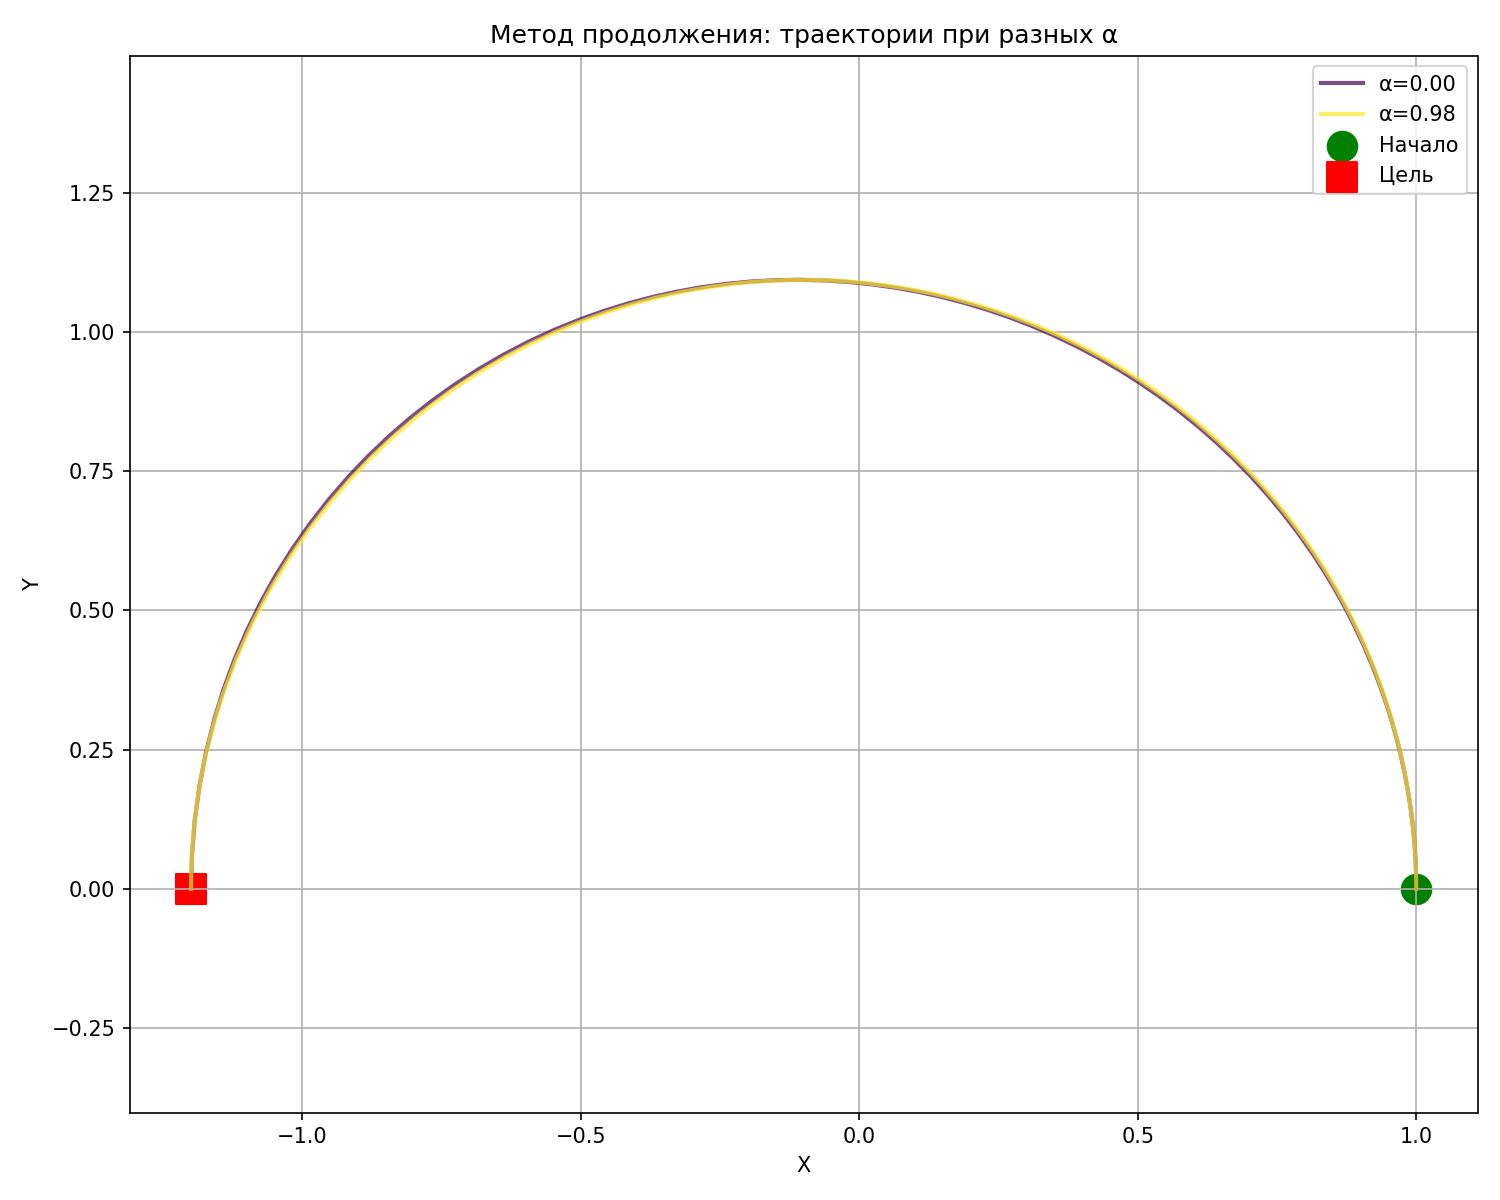
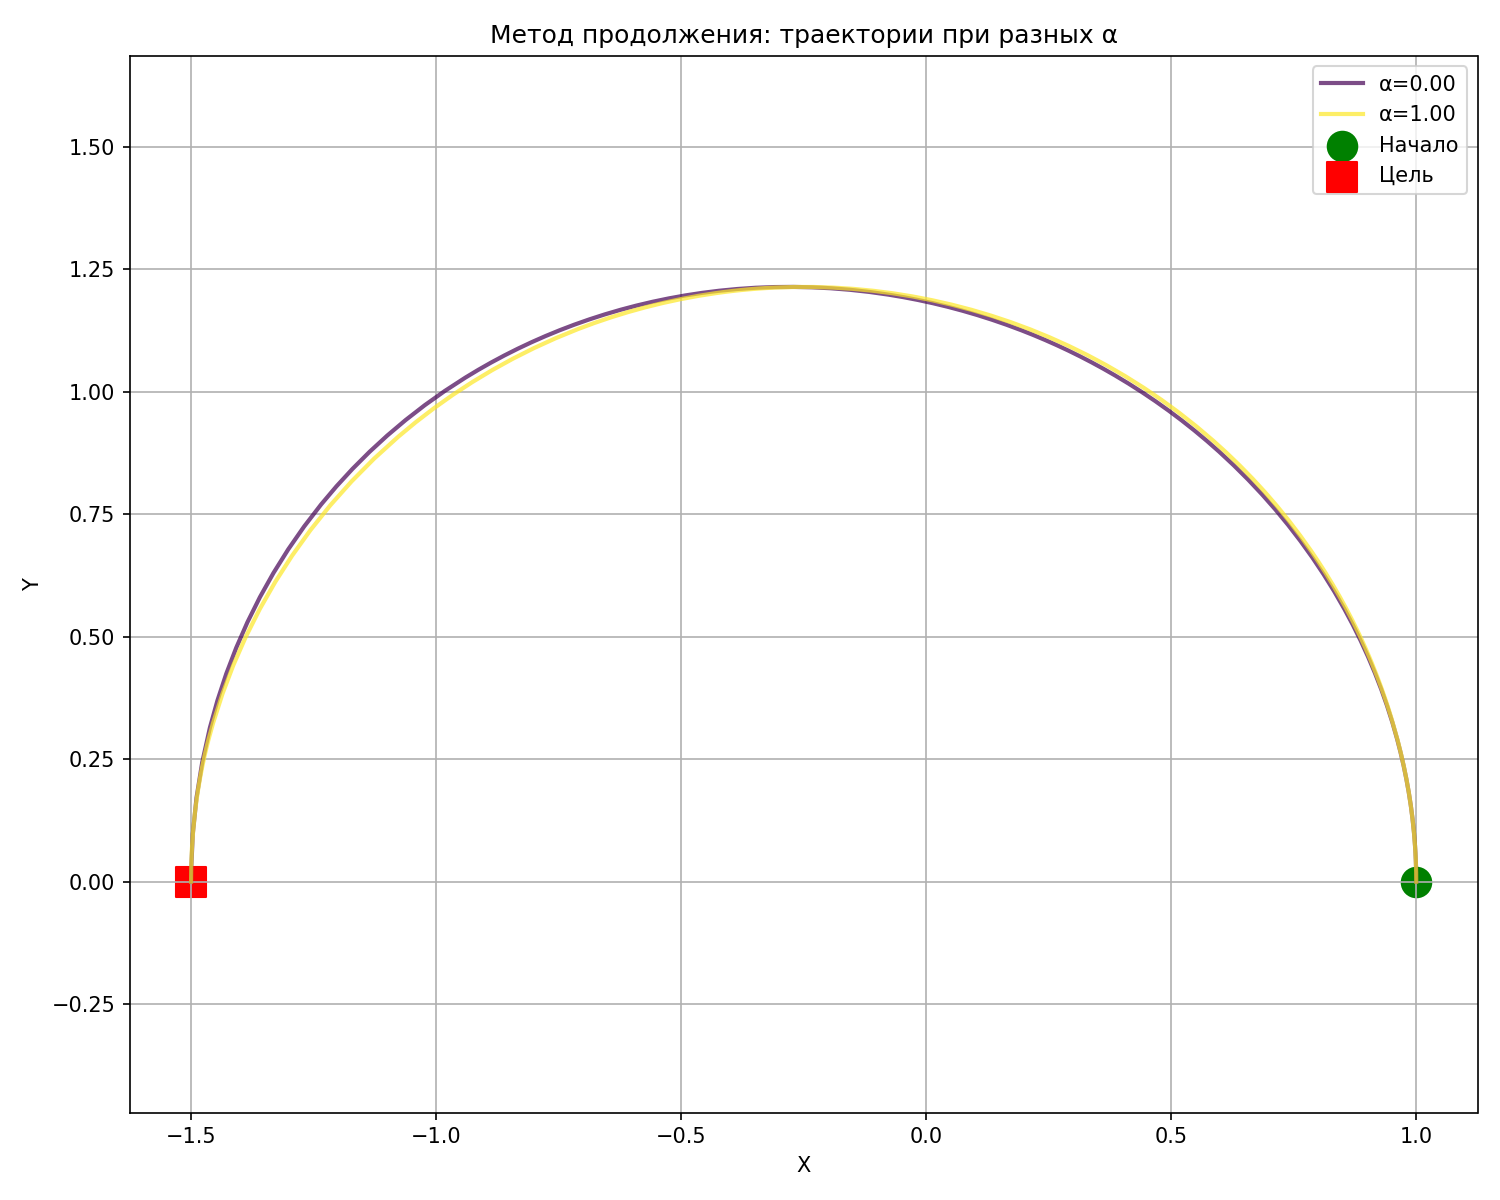
added kappa=1.5, which use in traj_solver. And last alpha is  1

diff --git a/result_traj.py b/result_traj.py
@@ -291,14 +291,14 @@ if __name__ == "__main__":
         alpha=0.0,
         func_type='mixed'
     )
-
+    kappa = 1.5
     r0 = np.array([1.0, 0.0, 0.0])
     v0 = np.array([0.0, 1.0, 0.0])
 
-    rf = np.array([-1.2, 0.0, 0.0])
-    vf = np.array([0.0, -1/np.sqrt(1.2), 0.0])
+    rf = np.array([-kappa, 0.0, 0.0])
+    vf = np.array([0.0, -1/np.sqrt(kappa), 0.0])
 
-    T = 2 * np.pi * T_a(0.5, 1.2)
+    T = 2 * np.pi * T_a(0.5, kappa)
     solver.set_boundary_conditions(r0, v0, rf, vf, T)
 
     results = solver.continuation_method(
